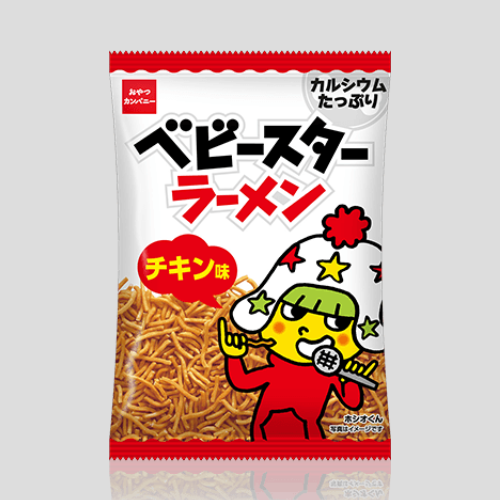
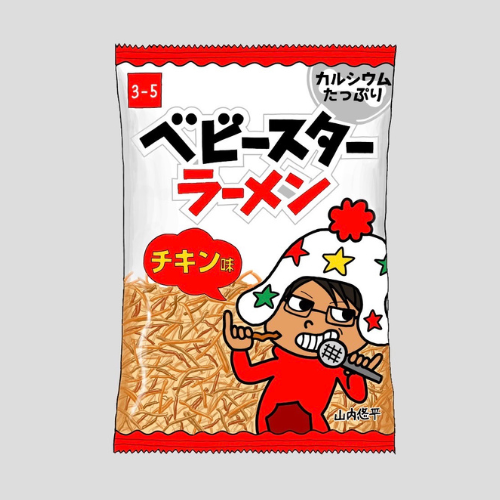
update
・POST追加
・MENU 説明追加
・ベビスタ画像変更+copyright追加
・微調整

diff --git a/index.html b/index.html
@@ -38,9 +38,9 @@
     </div>
     <nav>
         <ul class="jump">
-            <li><a class="link_white" href="#post">&or; POST</a></li>
-            <li><a class="link_white" href="#theme">&or; THEME</a></li>
-            <li><a class="link_white" href="#menu">&or; MENU</a></li>
+            <li><a href="#post">&or; POST</a></li>
+            <li><a href="#theme">&or; THEME</a></li>
+            <li><a href="#menu">&or; MENU</a></li>
         </ul>
     </nav>
     <div class="top">
@@ -51,11 +51,17 @@
         <div class="news">
             <h2 class="news_heading">チケット販売日時</h2>
             <h3 class="news_description">2024年9月12日(木)・13日(金)<br>13:00~13:20</h3>
+            <p>※ご購入にあたり<a href="https://docs.google.com/document/d/1eLacXmM4r-9VsqfR2oeXUFOki1V0POnEIuv_wxDkIt8/view">「&#x1F4C4;ご購入予定のお客様へのお願い」</a>をお読みください</p>
         </div>
     </div>
-<!--    <div class="posts"> <a name="posts">
+    <div class="post"> <a name="post">
         <h2 class="heading">POST - 新着情報</h2>
-    </div> -->
+        <!--▼ 新着情報内容はここ！上に重ねる！ ▼-->
+        <ul>
+            <li>'24/09/06&emsp;&#x1F4C4;<a href="https://docs.google.com/document/d/1eLacXmM4r-9VsqfR2oeXUFOki1V0POnEIuv_wxDkIt8/view">ご購入予定のお客様へのお願い</a></li>
+            <li>'24/09/05&emsp;Webサイトを公開しました</li>
+        </ul>
+    </div>
     <div class="theme"> <a name="theme">
         <div class="heading">
             <h2>テーマ：多様性を斬る</h2>
@@ -81,7 +87,7 @@
             <div class="menu_text">
                 <h3>玉せん</h3>
                 <h4>&yen;150</h4>
-                <p></p>
+                <p>玉子、キャベツ、青のり、ソース、マヨネーズなどを挟みます(予定)</p>
             </div>
         </div>
         <hr class="hr">
@@ -94,40 +100,40 @@
                 <img  src="./pic/ベーコン.png" alt="ベーコンのイメージ画像">
                 <div class="menu_text">
                     <h3>ベーコン</h3>
-                    <h4>&yen;50</h4>
-                    <p></p>
+                    <h4>+&yen;50</h4>
+                    <p>こんがり焼いたベーコンを追加できます</p>
                 </div>
             </div>
             <div class="tp">
                 <img src="./pic/チーズ.png" alt="チーズのイメージ画像">
                 <div class="menu_text">
                     <h3>チーズ</h3>
-                    <h4>&yen;50</h4>
-                    <p></p>
+                    <h4>+&yen;50</h4>
+                    <p>濃厚なチーズを追加できます</p>
                 </div>
             </div>
             <div class="tp">
                 <img src="./pic/ベビースターラーメン.png" alt="ベビースターラーメンのイメージ画像">
                 <div class="menu_text">
                     <h3>ベビースターラーメン</h3>
-                    <h4>&yen;50</h4>
-                    <p></p>
+                    <h4>+&yen;50</h4>
+                    <p>カリカリ食感を楽しむことができます</p>
                 </div>
             </div>
             <div class="tp">
                 <img src="./pic/デスソース.png" alt="デスソースのイメージ画像">
                 <div class="menu_text">
                     <h3>デスソース</h3>
-                    <h4>&yen;50</h4>
-                    <p>※辛味が苦手な方はご注意ください</p>
+                    <h4>+&yen;50</h4>
+                    <p>※辛味が苦手な方はご注意ください<br>※販売数によっては、かけ放題にする可能性アリ！</p>
                 </div>
             </div>
             <div class="tp">
                 <img src="./pic/たこ焼き.png" alt="たこ焼きのイメージ画像">
                 <div class="menu_text">
                     <h3>たこ焼き</h3>
-                    <h4>&yen;150</h4>
-                    <p></p>
+                    <h4>+&yen;150</h4>
+                    <p>焼きたてのたこ焼きを追加できます<br>「たこせん」として提供します</p>
                 </div>
             </div>
         </div>
@@ -163,7 +169,7 @@
             <h6>企画運営　2024年度 星城高校3年5組</h6>
             <h6>お問い合わせは <a href="./contact.html">こちら</a> から</h6>
         </div>
-        <p class="copyright">&copy; 2024 3年5組, Tai Ue</p>
+        <p class="copyright">&copy; 2024 3年5組, Tai Ue, 葉月</p>
     </footer>
 </body>
 </html>

diff --git a/css/design.css b/css/design.css
@@ -30,11 +30,10 @@
     margin: 0;
     padding: 5px 0px;
     font-weight: bold;
-}
-
-.link_white {
-    color: #ffffff;
-    text-decoration: none;
+    a {
+        color: #ffffff;
+        text-decoration: none;
+    }
 }
 
 .top {
@@ -54,6 +53,7 @@
     background-color: #fff0f5;
     margin: 0px 20px;
     padding: 15px;
+    a {color: #000000;}
 }
 
 .news_heading {
@@ -65,9 +65,26 @@
     padding: 10px 0px;
 }
 
+.post {
+    background-color: #ddffdd;
+    text-align: center;
+    li {
+        display: block;
+        list-style: none;
+    }
+    ul {
+        padding-left: 0;
+        display: inline-block;
+        text-align: left;
+    }
+    padding: 15px 20px 20px 20px;
+    margin-bottom: 15px;
+    a {color: #000000;}
+}
+
 .theme {
     text-align: center;
-    padding: 20px 0px 30px 0px;
+    padding: 15px 0px 30px 0px;
     background-color: #eaf3ff;    
 }
 

diff --git a/css/footer.css b/css/footer.css
@@ -1,25 +1,25 @@
 footer{
-    display: block;
-    width: 100%;
-    height: 200px;
-    top: 0px;
-    left: 0px;
-    color: #ffffff;
-    background-color: #212121;
- }
+   display: block;
+   width: 100%;
+   height: 200px;
+   top: 0px;
+   left: 0px;
+   color: #ffffff;
+   background-color: #212121;
+}
  
- .footer {
-    padding: 20px 6%;
-    a {
+.footer {
+   padding: 20px 6%;
+   a {
       color: #ffffff;
    }
- }
+}
 
- .footer_heading {
-    padding: 10px 0px 20px 0px;
- }
+.footer_heading {
+   padding: 10px 0px 20px 0px;
+}
 
- .copyright {
+.copyright {
    padding-top: 20px;
    text-align: center;
    font-size: x-small;

diff --git a/qrcode.html b/qrcode.html
@@ -40,7 +40,7 @@
             <h6>企画運営　2024年度 星城高校3年5組</h6>
             <h6>お問い合わせは <a href="./contact.html">こちら</a> から</h6>
         </div> 
-        <p class="copyright">&copy; 2024 3年5組, Tai Ue</p>
+        <p class="copyright">&copy; 2024 3年5組, Tai Ue, 葉月</p>
     </footer>
 </body>
 </html>

diff --git a/contact.html b/contact.html
@@ -34,7 +34,7 @@
             <h6>企画運営　2024年度 星城高校3年5組</h6>
             <h6>お問い合わせは <a href="./contact.html">こちら</a> から</h6>
         </div>
-        <p class="copyright">&copy; 2024 3年5組, Tai Ue</p>
+        <p class="copyright">&copy; 2024 3年5組, Tai Ue, 葉月</p>
     </footer>
 </body>
 </html>

diff --git a/forms.html b/forms.html
@@ -34,7 +34,7 @@
             <h6>企画運営　2024年度 星城高校3年5組</h6>
             <h6>お問い合わせは <a href="./contact.html">こちら</a> から</h6>
         </div>
-        <p class="copyright">&copy; 2024 3年5組, Tai Ue</p>
+        <p class="copyright">&copy; 2024 3年5組, Tai Ue, 葉月</p>
     </footer>
 </body>
 </html>

diff --git a/css/header.css b/css/header.css
@@ -34,7 +34,7 @@ header {
    height: 25px;
    top: 12px;
    right: 0px;
-   padding-right: 4%;
+   margin-right: 4%;
 }
 
 body {

diff --git a/css/coding_rule.css b/css/coding_rule.css
@@ -19,4 +19,3 @@ p {margin: 0;}
 .blank {
     height: 50px;
 }
-
